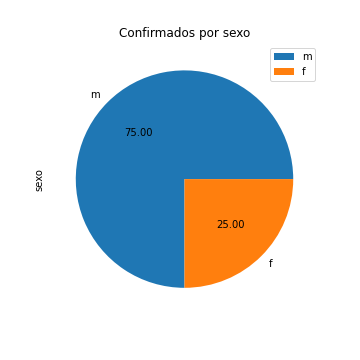
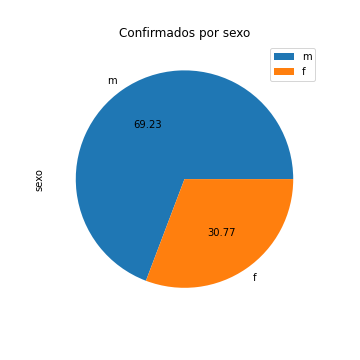
Actualizar paciente 13

diff --git a/README.md b/README.md
@@ -8,7 +8,7 @@ Proposito: Que investigadores/desarrolladores/sociedad civil se informen y estud
 
 ## Estadisticas
 
-Confirmados: 12
+Confirmados: 13
 
 Recuperados: 0
 
